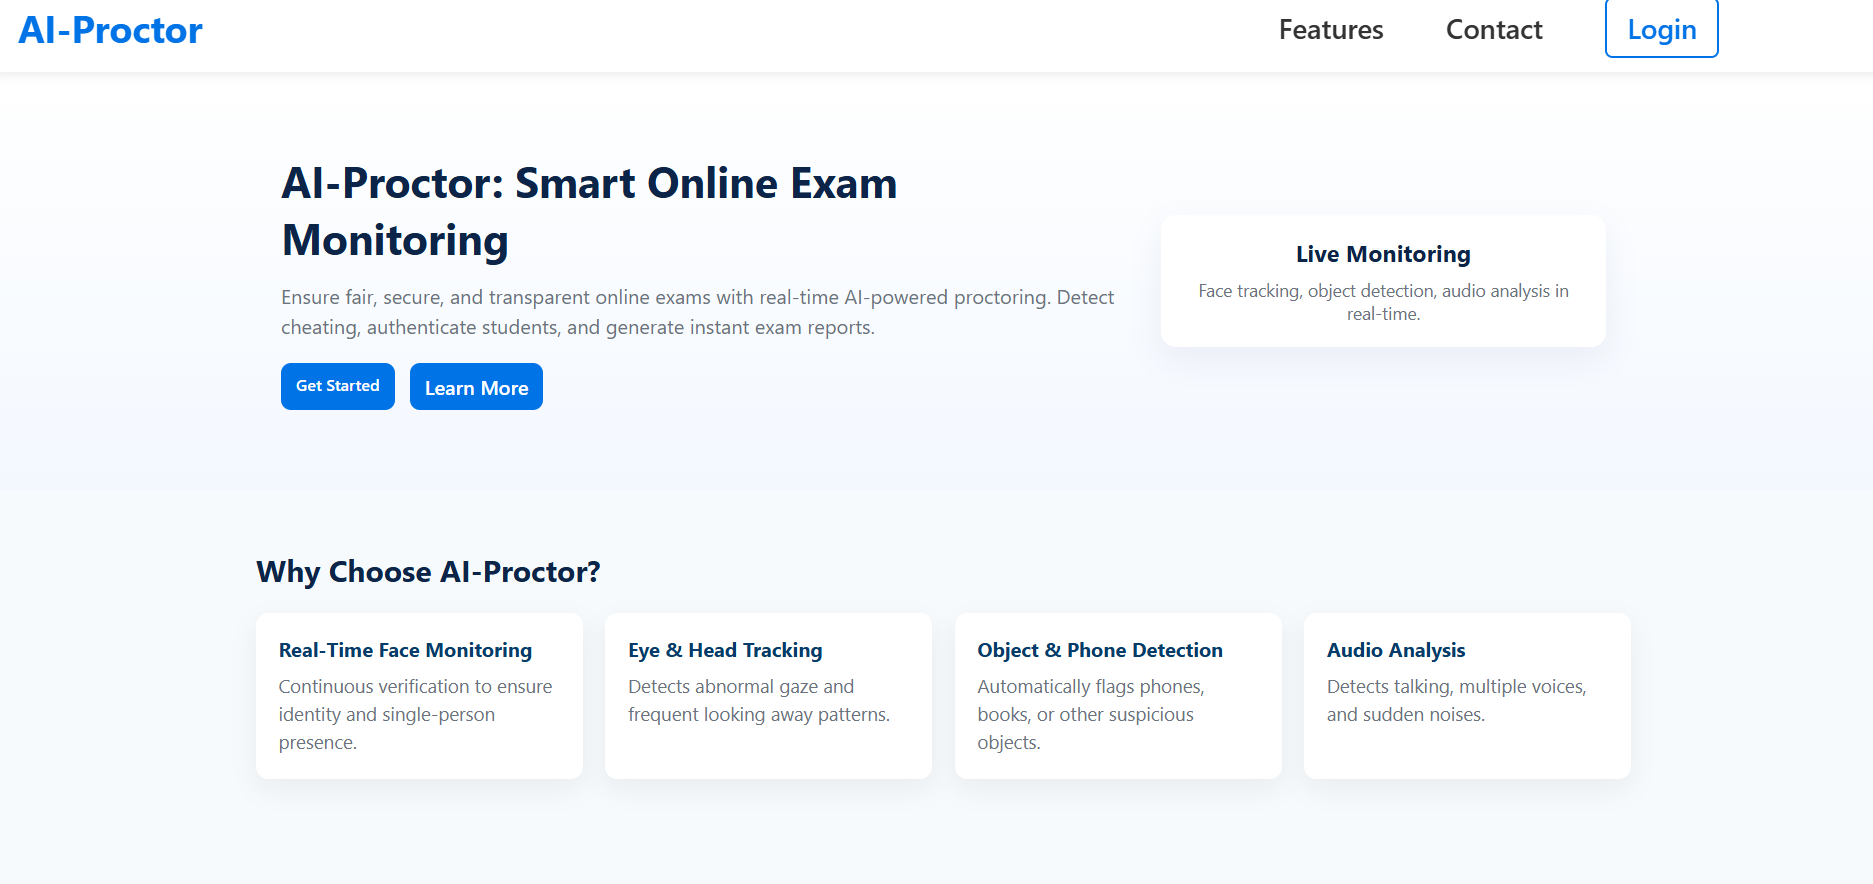
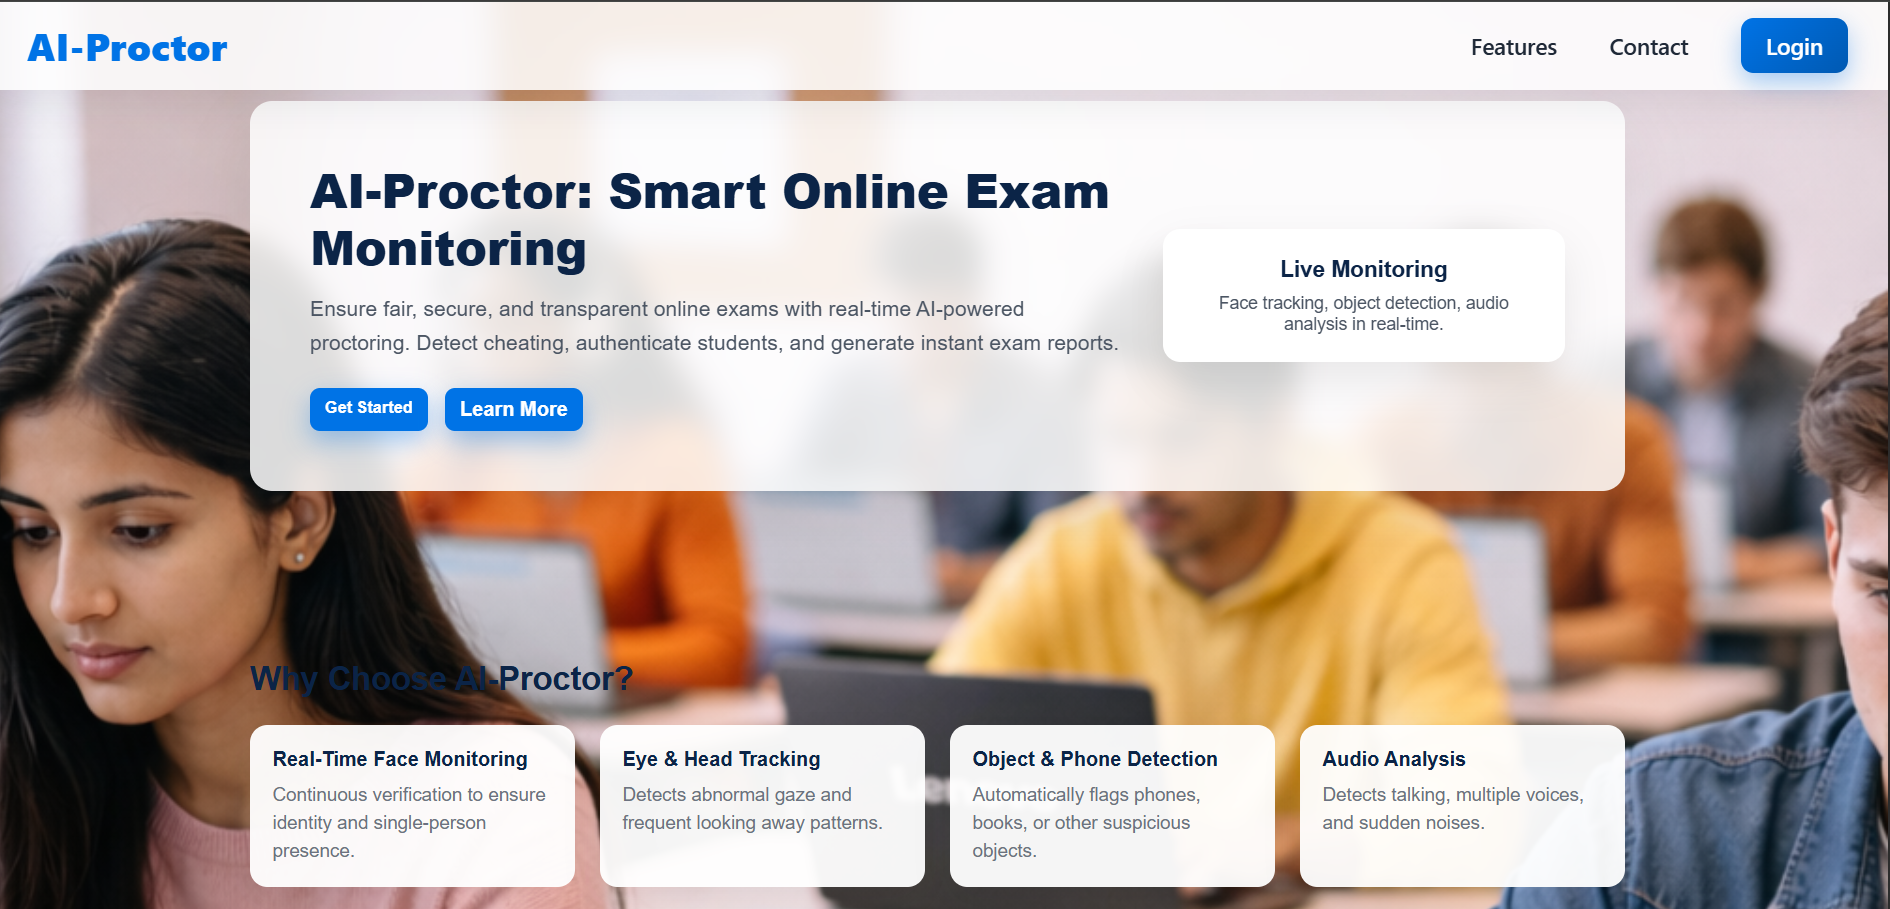
changes in projects

diff --git a/src/components/ProjectsSection.jsx b/src/components/ProjectsSection.jsx
@@ -33,6 +33,26 @@ const projects = [
     demoUrl: "http://127.0.0.1:5500/index.html",
     githubUrl: "https://github.com/princeyad-ui/WOW-Appliances",
   },
+   {
+  id: 4,
+  title: "ConvertX",
+  description:
+    "ConvertX is a multi-functional file conversion platform built using React, Node.js, Express, Python, and modern conversion libraries.",
+  image: "/projects/project4.png",
+  tags: ["React.js", "Express.js", "Node.js","MongoDB"],
+  demoUrl: "https://convertx-01.netlify.app/",   // ✅ fixed (removed /home)
+  githubUrl: "https://github.com/princeyad-ui/ConvertX",
+},
+{
+ id: 5,
+  title: "Hosting",
+  description:
+    "Developed a full-stack web hosting platform that allows users to deploy their frontend projects instantly by uploading source code.",
+  image: "/projects/project5.png",
+  tags: ["React.js", "Express.js", "Node.js","MongoDB"],
+  demoUrl: "https://hosting-01.netlify.app/",   // ✅ fixed (removed /home)
+  githubUrl: "https://github.com/princeyad-ui/Hosting",
+},
 ];
 
 export const ProjectsSection = () => {
